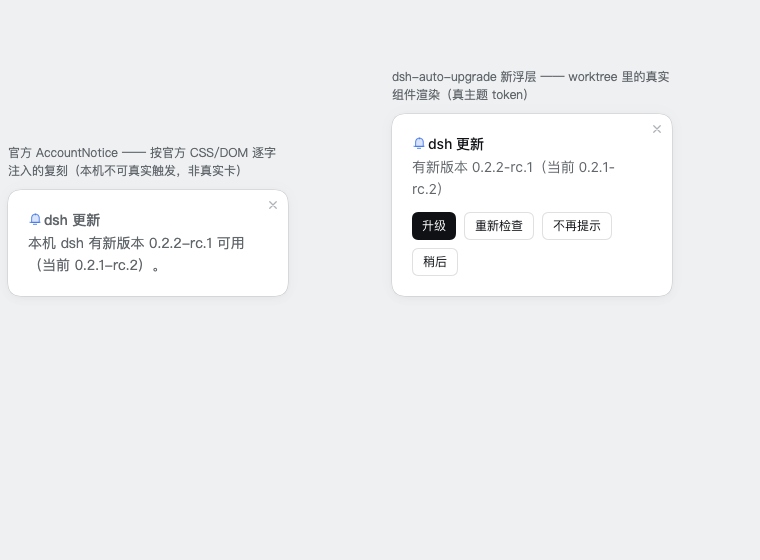
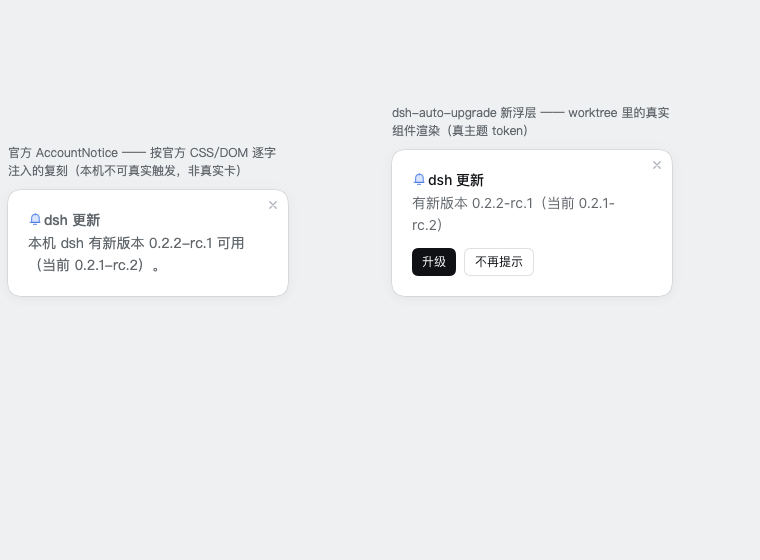
feat(overlay): 去掉「稍后」「重新检查」按钮，× 即本次隐藏（#15）

Changed region(s): [[0.5145, 0.1214, 0.8776, 0.5161]]

diff --git a/dsh-auto-upgrade/lib/client.js b/dsh-auto-upgrade/lib/client.js
@@ -51,9 +51,7 @@ window.__ModuleLoader__.load({
       'overlay.unknown': '无法确认是否有更新（{error}）',
       'overlay.cached': '今天已检查过',
       'overlay.upgrade': '升级',
-      'overlay.recheck': '重新检查',
       'overlay.dismiss': '不再提示',
-      'overlay.later': '稍后',
       'overlay.close': '关闭',
       'overlay.preflightTitle': '升级落点',
       'overlay.releaseNotes': '更新说明',
@@ -114,9 +112,7 @@ window.__ModuleLoader__.load({
       'overlay.unknown': 'Cannot confirm updates ({error})',
       'overlay.cached': 'already checked today',
       'overlay.upgrade': 'Upgrade',
-      'overlay.recheck': 'Re-check',
       'overlay.dismiss': 'Do not show again',
-      'overlay.later': 'Later',
       'overlay.close': 'Close',
       'overlay.preflightTitle': 'Upgrade plan',
       'overlay.releaseNotes': 'Release notes',
@@ -841,9 +837,7 @@ window.__ModuleLoader__.load({
             onClick: () => flow.openPlan(target),
           }, t('overlay.upgrade')))
         }
-        actions.push(h('button', { key: 're', className: 'dsh-au-btn', disabled: busy, onClick: () => runCheck(true) }, t('overlay.recheck')))
         actions.push(h('button', { key: 'di', className: 'dsh-au-btn', onClick: dismissForever }, t('overlay.dismiss')))
-        actions.push(h('button', { key: 'la', className: 'dsh-au-btn', onClick: () => setHidden(true) }, t('overlay.later')))
       }
 
       return h('div', {

diff --git a/dsh-auto-upgrade/README.md b/dsh-auto-upgrade/README.md
@@ -5,6 +5,10 @@
 升级入口有**两处**：右下角浮层，以及设置页「自动升级」里的常驻入口（浮层被「不再提示」关掉也照样能发起）；
 两处共用同一份计划卡与提交流程，两条门禁行为一致。
 
+浮层上只有三个动作：**升级**（主操作）、**不再提示**、以及右上角的 **`×`**。`×` 就是「本次隐藏」，
+与「稍后」完全等价，所以**不再单列「稍后」**；手动重检的正式入口是设置页的「**立即检查**」，
+因此浮层在**所有状态（含错误态）**都不提供「重新检查」，避免两处入口漂移。
+
 设计权威文档：[`docs/design/dsh-auto-upgrade-T1.md`](./docs/design/dsh-auto-upgrade-T1.md)（接口清单 + 数据流图 + 拍板结论）。
 验收报告（含逐条证据与「没验证什么」）：[`docs/acceptance/dsh-auto-upgrade-acceptance.md`](./docs/acceptance/dsh-auto-upgrade-acceptance.md)。
 变更记录：[`CHANGELOG.md`](./CHANGELOG.md)（含待办）。面向 agent 的工作约定：[`../docs/plugins/dsh-auto-upgrade.md`](../docs/plugins/dsh-auto-upgrade.md)。
@@ -69,7 +73,7 @@ package.json）推出**宿主此刻真正执行的** `dsh-app-boot` 绝对路径
 
 ```sh
 node --check lib/index.js lib/client.js          # 语法
-node --test "test/*.test.mjs"                    # 56 用例，含真 http 服务与假 registry
+node --test "test/*.test.mjs"                    # 58 用例，含真 http 服务与假 registry
 node --test test/official-compat.test.mjs        # 需要本机装有 @deepseek-ai/dsh
 ```
 

diff --git a/docs/plugins/dsh-auto-upgrade.md b/docs/plugins/dsh-auto-upgrade.md
@@ -34,6 +34,10 @@ Host API/设置页行为都不受影响）。
   `left:8px;bottom:16px`；公式 `left=max(8,min(anchor.left,innerWidth-288))`、
   `bottom=max(8,innerHeight-anchor.top+4)`；算出前 `visibility:hidden`。
 - 关闭按钮：`×` 只隐藏本次（等价 `setHidden(true)`）；「不再提示」仍是正文下方的按钮。
+- 浮层动作只有三个：**升级**（`primary`）/ **不再提示** / 右上角 **`×`**。**没有「稍后」**——`×` 与它等价，
+  重复显示只会让人以为两者不同；**没有「重新检查」**——手动重检的正式入口是设置页的「**立即检查**」，
+  浮层**所有状态（含错误态）**都不给，避免两处入口漂移。`test/client-upgrade-entry.test.mjs` 会渲染浮层
+  并断言动作区**恰好**只剩「升级 + 不再提示」（多一个按钮即红）。
 - 本机浅色主题实测 token：`--dsw-specific-input-major` `#fff`、
   `--dsw-alias-brand-primary-new-colorprimary-new-color` `#4176e6`（名字很怪但真实存在，别改名别回退）、
   `--dsw-alias-label-caption` `#adb2b8`、`--dsw-alias-label-secondary` `#61666b`、

diff --git a/dsh-auto-upgrade/CHANGELOG.md b/dsh-auto-upgrade/CHANGELOG.md
@@ -65,6 +65,11 @@
   避免波及设置页复用的 `.dsh-au-title`）。
 - 视觉验收脚本 `test/visual/`（probe-gui / render-cards）：真 GUI 抓 token 与锚点，真 React 渲染本插件 +
   官方 CSS/DOM 复刻并排量 computed style；截图见 `docs/screenshots/overlay*.png`。
+- **浮层去掉「稍后」与「重新检查」两个按钮。** 右上角 `×` 就是「本次隐藏」（等价 `setHidden(true)`），
+  与「稍后」完全等价，所以不再重复显示「稍后」。手动重检的正式入口是**设置页的「立即检查」**，
+  因此浮层里**所有状态（含错误态）**都不再提供「重新检查」按钮——避免两处入口漂移。
+  随之删除不再被引用的字典键 `overlay.later` / `overlay.recheck`（中英两套）。
+  保留：升级（primary）、不再提示、右上角 `×`，以及升级计划卡的「确认升级 / 取消」。
 
 ### 待办（尚未做，不是"已完成"）
 
